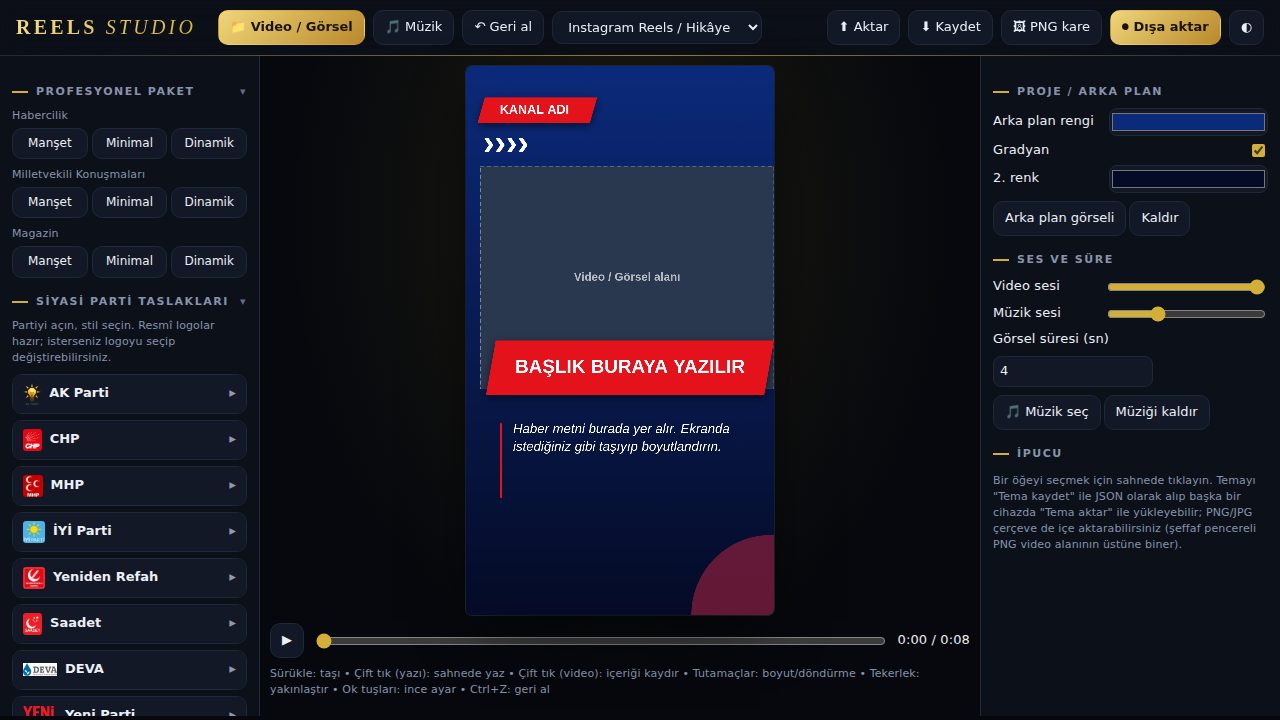
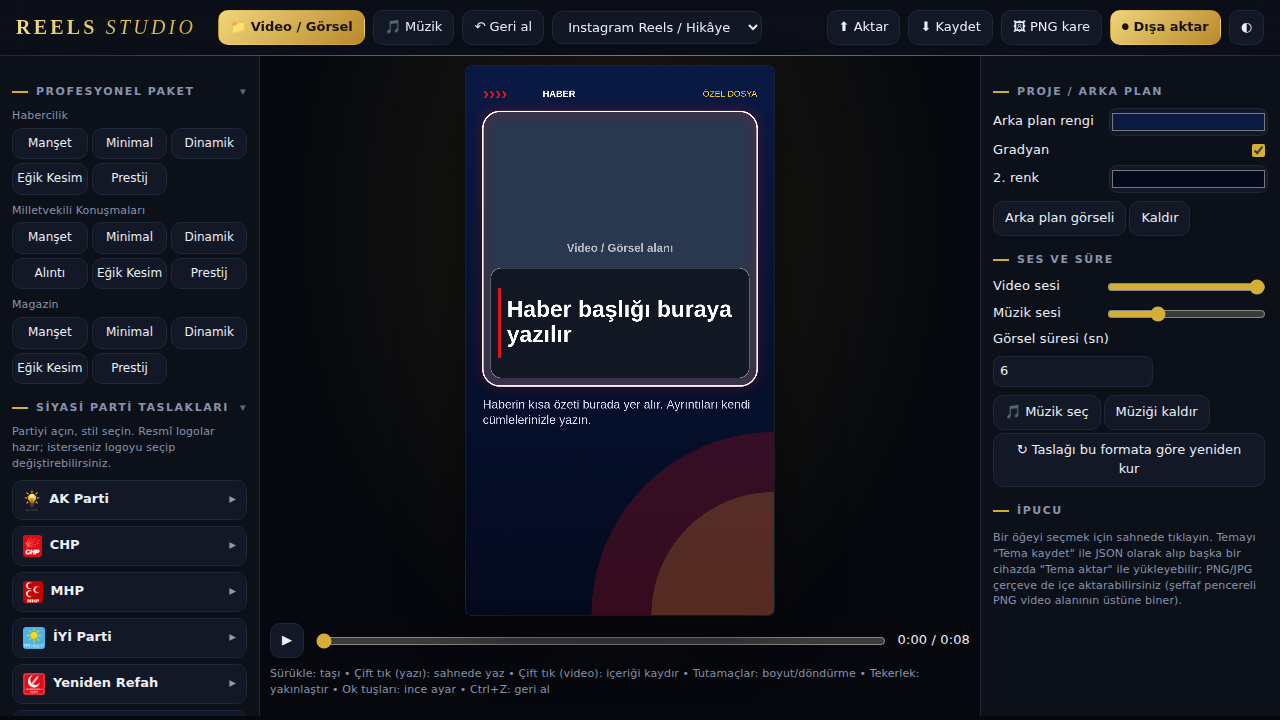
Add files via upload

diff --git a/ebs_prof_reals_studio/index.html b/ebs_prof_reals_studio/index.html
@@ -91,21 +91,21 @@ const FONTS=['Arial','Georgia','Impact','Trebuchet MS','Verdana','Tahoma','Times
 let L=[],S={vv:1,mv:.3,per:4},A={},IM={},sel=null,vid=null,imgs=[],mus=null,T=0,run=0,c0=0,rec=null,drag=null,G=[],hist=[],n=0,ac,dst,gv,gm,wt;
 const R=(x,y,w,h,o)=>({k:'rect',x,y,w,h,c1:'#ffffff',...o}),X=(t,x,y,w,h,o)=>({k:'text',t,x,y,w,h,s:60,c:'#ffffff',f:'Arial',b:1,a:'left',lh:1.2,...o}),M=(x,y,w,h,o)=>({k:'media',x,y,w,h,r:0,fit:'cover',...o});
 const TP={
-'📰 Haber':()=>({S:{bg:'#0b2a7a',gr:1,bg2:'#050b26'},L:[R(40,110,420,90,{c1:'#e3121b',sk:26,shd:1,an:'left'}),X('KANAL ADI',50,110,380,90,{s:44,a:'center',an:'left'}),X('››››',60,220,300,110,{s:120}),M(50,350,1030,780),R(70,960,1010,190,{c1:'#e3121b',sk:34,shd:1,an:'right',ad:.3}),X('BAŞLIK BURAYA YAZILIR',130,965,890,180,{s:66,a:'center',up:1,af:1,an:'right',ad:.3}),R(120,1250,6,260,{c1:'#e3121b'}),X('Haber metni burada yer alır. Ekranda istediğiniz gibi taşıyıp boyutlandırın.',165,1240,820,300,{s:46,b:0,i:1,v:'top',lh:1.35,an:'fade',ad:.8}),R(790,1640,560,560,{c1:'#8b1f3c',r:280,o:.7})]}),
-'🚨 Son Dakika':()=>({S:{bg:'#000'},L:[M(0,0,1080,1920),R(0,900,1080,1020,{c1:'#000000',fade:1,rv:1,o:.92}),R(0,1200,560,100,{c1:'#e3121b',sk:24,an:'left'}),X('SON DAKİKA',20,1200,500,100,{s:54,a:'center',an:'left'}),X('Haber başlığı buraya',60,1320,960,300,{s:78,up:1,af:1,v:'top',an:'up',ad:.3}),R(0,1760,1080,160,{c1:'#c4000a'}),X('KANAL ADI • www.site.com',40,1760,1000,160,{s:46,a:'center'})]}),
-'🎤 Vekil Konuşması':()=>({S:{bg:'#0d1b2a',gr:1,bg2:'#1b3a5c'},L:[X('MİLLETVEKİLİ AÇIKLAMASI',60,100,960,70,{s:38,c:'#f2c14e'}),R(60,170,200,8,{c1:'#f2c14e'}),M(60,230,960,900,{r:36,bw:8,bc:'#ffffff'}),R(60,1090,960,200,{c1:'#f2c14e',r:24,shd:1,an:'up',ad:.2}),X('Ad Soyad',100,1100,880,100,{s:64,c:'#0d1b2a',an:'up',ad:.2}),X('İl Milletvekili • Parti',100,1190,880,80,{s:38,c:'#0d1b2a',b:0,an:'up',ad:.2}),X('“',60,1280,200,200,{s:260,c:'#f2c14e',f:'Georgia',o:.8}),X('Konuşmanın öne çıkan cümlesi burada yer alır.',100,1420,880,360,{s:54,i:1,b:0,v:'top',lh:1.3,an:'fade',ad:.7}),X('KANAL ADI',60,1820,960,60,{s:32,c:'#8ea2bf',a:'center'})]}),
-'💬 Röportaj':()=>({S:{bg:'#f4efe6'},L:[R(0,0,1080,420,{c1:'#c1121f'}),M(330,230,420,420,{r:210,bw:14,bc:'#f4efe6'}),X('Konuk Adı Soyadı',60,700,960,90,{s:64,c:'#14213d',a:'center'}),X('Unvan / Kurum',60,790,960,60,{s:36,b:0,c:'#c1121f',a:'center'}),X('“',60,850,960,230,{s:300,c:'#c1121f',a:'center',f:'Georgia'}),X('Alıntı cümlesi burada yer alır.',90,1080,900,600,{s:58,i:1,b:0,c:'#14213d',a:'center',v:'top',lh:1.3,an:'fade',ad:.5}),R(0,1780,1080,140,{c1:'#14213d'}),X('KANAL ADI',0,1780,1080,140,{s:44,a:'center'})]}),
+'📰 Haber':()=>({S:{bg:'#0b2a7a',gr:1,bg2:'#050b26'},L:[R(40,110,420,90,{c1:'#e3121b',sk:26,shd:1,an:'left'}),X('HABER',50,110,380,90,{s:44,a:'center',an:'left'}),X('››››',60,220,300,110,{s:120}),M(50,350,1030,780),R(70,960,1010,190,{c1:'#e3121b',sk:34,shd:1,an:'right',ad:.3}),X('BAŞLIK BURAYA YAZILIR',130,965,890,180,{s:66,a:'center',up:1,af:1,an:'right',ad:.3}),R(120,1250,6,260,{c1:'#e3121b'}),X('Haber metni burada yer alır. Ekranda istediğiniz gibi taşıyıp boyutlandırın.',165,1240,820,300,{s:46,b:0,i:1,v:'top',lh:1.35,an:'fade',ad:.8}),R(790,1640,560,560,{c1:'#8b1f3c',r:280,o:.7})]}),
+'🚨 Son Dakika':()=>({S:{bg:'#000'},L:[M(0,0,1080,1920),R(0,900,1080,1020,{c1:'#000000',fade:1,rv:1,o:.92}),R(0,1200,560,100,{c1:'#e3121b',sk:24,an:'left'}),X('SON DAKİKA',20,1200,500,100,{s:54,a:'center',an:'left'}),X('Haber başlığı buraya',60,1320,960,300,{s:78,up:1,af:1,v:'top',an:'up',ad:.3}),R(0,1760,1080,160,{c1:'#c4000a'}),X('CANLI • SON DAKİKA • GÜNCEL',40,1760,1000,160,{s:46,a:'center'})]}),
+'🎤 Vekil Konuşması':()=>({S:{bg:'#0d1b2a',gr:1,bg2:'#1b3a5c'},L:[X('MİLLETVEKİLİ AÇIKLAMASI',60,100,960,70,{s:38,c:'#f2c14e'}),R(60,170,200,8,{c1:'#f2c14e'}),M(60,230,960,900,{r:36,bw:8,bc:'#ffffff'}),R(60,1090,960,200,{c1:'#f2c14e',r:24,shd:1,an:'up',ad:.2}),X('Ad Soyad',100,1100,880,100,{s:64,c:'#0d1b2a',an:'up',ad:.2}),X('İl Milletvekili • Parti',100,1190,880,80,{s:38,c:'#0d1b2a',b:0,an:'up',ad:.2}),X('“',60,1280,200,200,{s:260,c:'#f2c14e',f:'Georgia',o:.8}),X('Konuşmanın öne çıkan cümlesi burada yer alır.',100,1420,880,360,{s:54,i:1,b:0,v:'top',lh:1.3,an:'fade',ad:.7})]}),
+'💬 Röportaj':()=>({S:{bg:'#f4efe6'},L:[R(0,0,1080,420,{c1:'#c1121f'}),M(330,230,420,420,{r:210,bw:14,bc:'#f4efe6'}),X('Konuk Adı Soyadı',60,700,960,90,{s:64,c:'#14213d',a:'center'}),X('Unvan / Kurum',60,790,960,60,{s:36,b:0,c:'#c1121f',a:'center'}),X('“',60,850,960,230,{s:300,c:'#c1121f',a:'center',f:'Georgia'}),X('Alıntı cümlesi burada yer alır.',90,1080,900,600,{s:58,i:1,b:0,c:'#14213d',a:'center',v:'top',lh:1.3,an:'fade',ad:.5}),R(0,1780,1080,140,{c1:'#14213d'}),X('RÖPORTAJ',0,1780,1080,140,{s:44,a:'center'})]}),
 '✨ Modern Cam':()=>({S:{bg:'#10131a'},L:[M(0,0,1080,1920,{bl:40}),M(0,380,1080,1000,{fit:'contain'}),R(60,1400,960,380,{c1:'#ffffff',o:.16,r:48,sw:2,sc:'#ffffff',an:'up'}),R(100,1440,230,60,{c1:'#ff3d71',r:30}),X('YENİ',100,1440,230,60,{s:30,a:'center'}),X('Başlık burada',100,1520,880,140,{s:66,af:1,v:'top',an:'up',ad:.2}),X('Alt başlık / açıklama',100,1665,880,90,{s:36,b:0,o:.85})]}),
 '📣 Duyuru':()=>({S:{bg:'#2a0a5e',gr:1,bg2:'#f0504a'},L:[X('DUYURU',60,120,960,130,{s:120,a:'center',f:'Impact',b:0,an:'down'}),M(90,320,900,900,{r:60,bw:12,bc:'#ffffff'}),R(120,1180,840,150,{c1:'#ffd23f',r:75,shd:1,an:'up'}),X('12 EKİM • 20:00',120,1180,840,150,{s:64,c:'#2a0a5e',a:'center',an:'up'}),X('Etkinlik adı ve yer bilgisi burada',100,1400,880,260,{s:60,a:'center',af:1,an:'fade',ad:.6}),X('www.siteadi.com',60,1780,960,70,{s:38,a:'center',b:0})]}),
-'⚽ Spor':()=>({S:{bg:'#04210f',gr:1,bg2:'#000000'},L:[X('SPOR',60,90,300,80,{s:54,c:'#ffd400'}),M(0,200,1080,880),R(0,1000,1080,170,{c1:'#ffd400',sk:50,an:'left'}),X('MAÇ BAŞLIĞI',60,1000,960,170,{s:70,c:'#04210f',a:'center',up:1,af:1,an:'left'}),R(140,1250,800,200,{c1:'#ffffff',o:.1,r:30,sw:2,sc:'#ffd400'}),X('TAKIM A',160,1260,260,180,{s:40,a:'center',af:1}),X('2 - 1',420,1250,240,200,{s:90,c:'#ffd400',a:'center'}),X('TAKIM B',660,1260,260,180,{s:40,a:'center',af:1}),X('Maç özeti ve detaylar burada.',100,1500,880,260,{s:46,b:0,a:'center',v:'top'}),X('KANAL ADI',0,1820,1080,60,{s:34,a:'center',c:'#8ea2bf'})]}),
+'⚽ Spor':()=>({S:{bg:'#04210f',gr:1,bg2:'#000000'},L:[X('SPOR',60,90,300,80,{s:54,c:'#ffd400'}),M(0,200,1080,880),R(0,1000,1080,170,{c1:'#ffd400',sk:50,an:'left'}),X('MAÇ BAŞLIĞI',60,1000,960,170,{s:70,c:'#04210f',a:'center',up:1,af:1,an:'left'}),R(140,1250,800,200,{c1:'#ffffff',o:.1,r:30,sw:2,sc:'#ffd400'}),X('TAKIM A',160,1260,260,180,{s:40,a:'center',af:1}),X('2 - 1',420,1250,240,200,{s:90,c:'#ffd400',a:'center'}),X('TAKIM B',660,1260,260,180,{s:40,a:'center',af:1}),X('Maç özeti ve detaylar burada.',100,1500,880,260,{s:46,b:0,a:'center',v:'top'})]}),
 '💹 Ekonomi':()=>({S:{bg:'#07162b',gr:1,bg2:'#0c3b2e'},L:[X('PİYASALAR',60,100,700,90,{s:56,c:'#2ee59d'}),R(60,190,260,8,{c1:'#2ee59d'}),M(60,260,960,640,{r:30}),R(60,960,460,260,{c1:'#ffffff',o:.08,r:28,sw:2,sc:'#2ee59d'}),X('DOLAR',90,980,400,70,{s:40,b:0,c:'#8ea2bf'}),X('00,00',90,1050,400,140,{s:100,c:'#2ee59d'}),R(560,960,460,260,{c1:'#ffffff',o:.08,r:28,sw:2,sc:'#2ee59d'}),X('EURO',590,980,400,70,{s:40,b:0,c:'#8ea2bf'}),X('00,00',590,1050,400,140,{s:100,c:'#2ee59d'}),X('Ekonomi başlığı',60,1280,960,260,{s:68,up:1,af:1,v:'top'}),X('Kısa açıklama metni.',60,1560,960,240,{s:42,b:0,o:.85,v:'top'})]}),
 '🕯 Anma':()=>({S:{bg:'#0a0a0a'},L:[X('BAŞSAĞLIĞI',90,130,900,100,{s:56,a:'center',f:'Georgia',b:0}),M(90,260,900,1080),R(90,1380,900,3,{c1:'#ffffff'}),X('Ad Soyad',90,1410,900,110,{s:76,a:'center',f:'Georgia',b:0}),X('1950 - 2026',90,1520,900,70,{s:44,a:'center',c:'#bbbbbb',b:0}),X('Allah rahmet eylesin',90,1620,900,120,{s:48,i:1,a:'center',f:'Georgia',b:0,c:'#dddddd',an:'fade',ad:.6})]}),
 '💖 Magazin':()=>({S:{bg:'#2b0a4a',gr:1,bg2:'#ff2d87'},L:[R(0,0,1080,160,{c1:'#ffe14d'}),X('MAGAZİN',0,0,1080,160,{s:84,c:'#2b0a4a',a:'center',f:'Impact',b:0}),M(70,230,940,1000,{r:50,bw:10,bc:'#ffe14d'}),R(90,1120,520,110,{c1:'#ff2d87',r:55,shd:1,an:'left'}),X('SICAK GELİŞME',90,1120,520,110,{s:38,a:'center',an:'left'}),X('Magazin başlığı',70,1290,940,300,{s:76,af:1,v:'top',an:'up',ad:.2,sh:1}),X('Detay metni',70,1600,940,200,{s:42,b:0,o:.9,v:'top'}),X('@kullaniciadi',0,1820,1080,60,{s:36,a:'center'})]}),
 '🏷 İndirim':()=>({S:{bg:'#d90429',gr:1,bg2:'#8d0801'},L:[X('BÜYÜK',60,120,960,120,{s:100,a:'center',f:'Impact',b:0}),X('İNDİRİM',60,230,960,200,{s:190,c:'#ffd23f',a:'center',f:'Impact',b:0,an:'zoom'}),M(140,480,800,700,{r:40,bw:10,bc:'#ffffff'}),R(640,1060,360,360,{c1:'#ffd23f',r:180,shd:1,an:'zoom',ad:.4}),X('%50',640,1060,360,360,{s:120,c:'#d90429',a:'center',f:'Impact',b:0,an:'zoom',ad:.4}),X('Ürün adı / kampanya detayı',80,1470,920,200,{s:60,a:'center',af:1,v:'top'}),R(260,1700,560,120,{c1:'#ffffff',r:60}),X('HEMEN İNCELE',260,1700,560,120,{s:46,c:'#d90429',a:'center'})]}),
 '📝 Altyazılı':()=>({S:{bg:'#000000'},L:[M(0,0,1080,1920),R(0,1300,1080,620,{c1:'#000000',fade:1,rv:1,o:.85}),X('@kanal',0,90,1080,70,{s:36,a:'center',o:.8,sh:1}),X('Altyazı / konuşma metni buraya yazılır',70,1560,940,260,{s:62,a:'center',af:1,sh:1,an:'fade'})]}),
-'🖥 YouTube Klasik':()=>({d:[1920,1080],S:{bg:'#000000'},L:[M(0,0,1920,1080),R(0,700,1920,380,{c1:'#000000',fade:1,rv:1,o:.85}),R(80,840,900,100,{c1:'#ff0000',sk:20,an:'left'}),X('Ad Soyad',100,840,860,100,{s:56,an:'left'}),R(80,940,1100,70,{c1:'#ffffff',sk:20,an:'left',ad:.2}),X('Unvan / Konum',100,940,1060,70,{s:34,c:'#111111',b:0,an:'left',ad:.2}),X('KANAL',1560,50,300,70,{s:44,a:'right',sh:1})]}),
-'📺 Yatay Haber':()=>({d:[1920,1080],S:{bg:'#050b26'},L:[M(0,0,1920,1080),R(0,820,1920,260,{c1:'#050b26',o:.92}),R(0,820,1920,10,{c1:'#e3121b'}),R(60,785,420,80,{c1:'#e3121b',sk:22,an:'left'}),X('SON DAKİKA',60,785,420,80,{s:40,a:'center',an:'left'}),X('Haber başlığı burada',70,885,1780,180,{s:80,up:1,af:1,v:'top',an:'up',ad:.2}),X('KANAL',1560,40,300,70,{s:44,a:'right',sh:1})]}),
-'🎞 Yatay Bölünmüş':()=>({d:[1920,1080],S:{bg:'#0b2a7a',gr:1,bg2:'#050b26'},L:[M(760,0,1160,1080,{an:'right'}),R(80,160,120,10,{c1:'#ffd23f'}),X('BAŞLIK BURAYA',80,200,620,480,{s:80,up:1,af:1,v:'top',an:'left',ad:.2}),X('Açıklama metni burada yer alır.',80,720,620,260,{s:36,b:0,v:'top',o:.85,an:'fade',ad:.7}),X('KANAL',80,60,300,60,{s:36,c:'#ffd23f'})]}),
+'🖥 YouTube Klasik':()=>({d:[1920,1080],S:{bg:'#000000'},L:[M(0,0,1920,1080),R(0,700,1920,380,{c1:'#000000',fade:1,rv:1,o:.85}),R(80,840,900,100,{c1:'#ff0000',sk:20,an:'left'}),X('Ad Soyad',100,840,860,100,{s:56,an:'left'}),R(80,940,1100,70,{c1:'#ffffff',sk:20,an:'left',ad:.2}),X('Unvan / Konum',100,940,1060,70,{s:34,c:'#111111',b:0,an:'left',ad:.2}),X('YOUTUBE',1560,50,300,70,{s:44,a:'right',sh:1})]}),
+'📺 Yatay Haber':()=>({d:[1920,1080],S:{bg:'#050b26'},L:[M(0,0,1920,1080),R(0,820,1920,260,{c1:'#050b26',o:.92}),R(0,820,1920,10,{c1:'#e3121b'}),R(60,785,420,80,{c1:'#e3121b',sk:22,an:'left'}),X('SON DAKİKA',60,785,420,80,{s:40,a:'center',an:'left'}),X('Haber başlığı burada',70,885,1780,180,{s:80,up:1,af:1,v:'top',an:'up',ad:.2}),X('SON DAKİKA',1520,40,340,70,{s:44,a:'right',sh:1})]}),
+'🎞 Yatay Bölünmüş':()=>({d:[1920,1080],S:{bg:'#0b2a7a',gr:1,bg2:'#050b26'},L:[M(760,0,1160,1080,{an:'right'}),R(80,160,120,10,{c1:'#ffd23f'}),X('BAŞLIK BURAYA',80,200,620,480,{s:80,up:1,af:1,v:'top',an:'left',ad:.2}),X('Açıklama metni burada yer alır.',80,720,620,260,{s:36,b:0,v:'top',o:.85,an:'fade',ad:.7}),X('GÜNDEM',80,60,300,60,{s:36,c:'#ffd23f'})]}),
 '⬜ Boş':()=>({S:{bg:'#000'},L:[M(0,0,1080,1920)]})};
 const snap=()=>JSON.stringify({L,S,W,H}),commit=()=>{hist.push(snap());if(hist.length>60)hist.shift()};
 function undo(){if(hist.length<2)return;hist.pop();const o=JSON.parse(hist[hist.length-1]);setSize(o.W||W,o.H||H,0);L=o.L;S=o.S;sel=null;syncFm();ui()}
@@ -378,67 +378,79 @@ const PKC=[
 {n:'Habercilik',a:'#e3121b',on:'#ffffff',ta:'#c4101a',a2:'#ffd23f',d:'#0a1a44',d2:'#040a1e',l:'#f3f5fa',ink:'#0b1630',tag:'HABER',tag2:'ÖZEL DOSYA',h:'Haber başlığı buraya yazılır',s:'Haberin kısa özeti burada yer alır. Ayrıntıları kendi cümlelerinizle yazın.'},
 {n:'Milletvekili Konuşmaları',a:'#c9a24b',on:'#0d1b2a',ta:'#8a5a00',a2:'#f2c14e',d:'#13263d',d2:'#070f19',l:'#f6f1e7',ink:'#14213d',tag:'MECLİS GÜNDEMİ',tag2:'AÇIKLAMA',h:'Vekilin açıklaması burada yer alır',s:'Öne çıkan ifadeyi buraya yazın. Yayımlamadan önce alıntıyı doğrulayın.',pn:'AD SOYAD',pr:'İl Milletvekili • Parti'},
 {n:'Magazin',a:'#ff2d87',on:'#ffffff',ta:'#d0176a',a2:'#ffd23f',d:'#2a0f4d',d2:'#12061f',l:'#fff4f9',ink:'#2b0a4a',tag:'MAGAZİN',tag2:'GÜNDEMDE',h:'Gündeme damga vuran gelişme',s:'Ayrıntılar ve açıklamalar burada yer alır.'}];
-const PKS=['Manşet','Minimal','Dinamik'];
+const PKS=['Manşet','Minimal','Dinamik','Alıntı','Eğik Kesim','Prestij'];
 function PK(ci,si,W,H,pi){
- const pt=pi!=null?PARTIES[pi]:null,c=pt?{...PKC[1],...pt,s:PKC[1].s,tag:pt.s.toUpperCase(),tag2:'MECLİS KONUŞMASI',pr:'Milletvekili • '+pt.s}:PKC[ci],r=Math.round,mn=Math.min(W,H),u=mn/1080,m=r(mn*.05),P=H/W>=1.2,LS=W/H>=1.5,vk=!!c.pn,L=[],S={vv:1,mv:.3,per:6,tk:[ci,si,pi]};
- const T=(n,t,x,y,w,h,s,col,o)=>X(t,r(x),r(y),r(w),r(h),{s:r(s*u),c:col,af:1,n,...o}),B=(n,x,y,w,h,o)=>R(r(x),r(y),r(w),r(h),{n,...o}),D=(n,x,y,w,h,o)=>M(r(x),r(y),r(w),r(h),{n,...o}),
- F=(x,y,w,col,o)=>[B('Kanal çizgisi',x,y-16*u,w,2,{c1:col,o:.22}),T('Kanal','KANAL / LOGO',x,y,w*.6,56*u,30,col,{a:'left',...o})],
- bu=(x,y)=>ci==2?[PO(st(12,.8),r(x),r(y),r(190*u),r(190*u),{c1:c.a2,shd:1,rot:10,n:'Rozet'}),T('Rozet yazısı','SICAK',x,y,190*u,190*u,40,'#2a0f4d',{a:'center',rot:10,f:'Impact',b:0,af:0})]:[];
- const lgo=(x,y,bw,bh,al)=>pt?plogo(pt,x,y,bw,bh,al):[];
+ const pt=pi!=null?PARTIES[pi]:null,c=pt?{...PKC[1],...pt,s:PKC[1].s,tag:pt.s.toUpperCase(),tag2:'MECLİS KONUŞMASI',pr:'Milletvekili • '+pt.s}:PKC[ci],r=Math.round,mn=Math.min(W,H),u=mn/1080,m=r(mn*.055),P=H/W>=1.2,LS=W/H>=1.5,vk=!!c.pn,L=[],S={vv:1,mv:.3,per:6,tk:[ci,si,pi]};
+ const T=(n,t,x,y,w,h,s,col,o)=>X(t,r(x),r(y),r(w),r(h),{s:r(s*u),c:col,af:1,n,...o}),B=(n,x,y,w,h,o)=>R(r(x),r(y),r(w),r(h),{n,...o}),D=(n,x,y,w,h,o)=>M(r(x),r(y),r(w),r(h),{n,...o}),PG=(n,pts,x,y,w,h,o)=>PO(pts,r(x),r(y),r(w),r(h),{n,...o}),
+ lgo=(x,y,bw,bh,al)=>pt?plogo(pt,x,y,bw,bh,al):[],hi=c.hi||c.a2,
+ qd=(R_,o,col)=>PG('Işık',Array.from({length:21},(_,i)=>{const a=i/20*Math.PI/2;return[1-Math.sin(a),1-Math.cos(a)]}).concat([[1,1]]),W-R_,H-R_,R_,R_,{c1:col,o}),
+ bu=(x,y)=>ci==2?[PO(st(12,.8),r(x),r(y),r(190*u),r(190*u),{c1:c.a2,shd:1,rot:10,n:'Rozet'}),T('Rozet yazısı','SICAK',x,y,190*u,190*u,40,'#2a0f4d',{a:'center',rot:10,f:'Impact',b:0,af:0})]:[],
+ pe=(x,y,w,ns,rs,nc,rc,al)=>[T('Ad Soyad',c.pn,x,y,w,ns*1.3*u,ns,nc,{a:al||'left'}),T('Unvan',c.pr,x,y+ns*1.3*u,w,rs*1.4*u,rs,rc,{a:al||'left',b:0})];
  if(si==0){S.bg=c.d;S.gr=1;S.bg2=c.d2;
-  if(LS){const lw=r(W*.42),fy=H-m-56*u,pl=vk?r(112*u):0,y0=fy-pl-20*u,ty=m+110*u,hh=H*(vk?.3:.36),sy=ty+hh+16*u;
-   L.push(D('Medya',lw,0,W-lw,H,{}),B('Dikey çizgi',lw-8*u,0,8*u,H,{c1:c.a}),B('Etiket zemin',m,m,360*u,68*u,{c1:c.a,sk:r(18*u),an:'left'}),T('Etiket',c.tag,m,m,360*u,68*u,32,c.on,{a:'center',up:1,an:'left'}),
-    T('Başlık',c.h,m,ty,lw-2*m,hh,72,'#ffffff',{v:'bot',lh:1.12,an:'up',ad:.2}),T('Özet',c.s,m,sy,lw-2*m,(vk?y0-16*u:fy-16*u)-sy,36,'#d7deee',{b:0,v:'top',lh:1.3,an:'fade',ad:.6}));
-   if(vk)L.push(B('Kişi levhası',m,y0,lw-2*m,pl,{c1:c.a}),T('Ad Soyad',c.pn,m+20*u,y0+8*u,lw-2*m-40*u,54*u,40,c.on,{a:'left'}),T('Unvan',c.pr,m+20*u,y0+62*u,lw-2*m-40*u,42*u,30,c.on,{a:'left',b:0}));
-   L.push(...F(m,fy,lw-2*m,'#ffffff'));
-  }else{const tb=H*(P?.06:.08),my=tb+m,mh=H*(P?(vk?.43:.46):(vk?.35:.41)),pl=vk?112*u:0,fy=H-m-56*u;
-   L.push(B('Üst bant',0,0,W,tb,{c1:c.a}),T('Etiket',c.tag,m,0,W-2*m,tb,34,c.on,{a:'center',up:1}),D('Medya',m,my,W-2*m,mh,{r:r(26*u),bw:r(6*u),bc:c.a}));
-   if(vk)L.push(B('Kişi levhası',m,my+mh,W-2*m,pl,{c1:c.a}),T('Ad Soyad',c.pn,m+24*u,my+mh,(W-2*m)*.52,pl,44,c.on,{a:'left'}),T('Unvan',c.pr,m+(W-2*m)*.5,my+mh,(W-2*m)*.5-24*u,pl,28,c.on,{a:'right',b:0}));
-   else L.push(B('Etiket 2 zemin',m+28*u,my+mh-32*u,300*u,64*u,{c1:c.a,sk:r(20*u),shd:1,an:'left'}),T('Etiket 2',c.tag2,m+28*u,my+mh-32*u,300*u,64*u,28,c.on,{a:'center',up:1,an:'left'}));
-   const zy=my+mh+pl+(vk?34:56)*u,zh=fy-28*u-zy;
-   L.push(T('Başlık',c.h,m,zy,W-2*m,zh*.52,P?100:78,'#ffffff',{v:'top',lh:1.12,an:'up',ad:.2}),B('Vurgu çizgisi',m,zy+zh*.54,120*u,6*u,{c1:c.a}),T('Özet',c.s,m,zy+zh*.6,W-2*m,zh*.4,P?44:36,'#d7deee',{b:0,v:'top',lh:1.3,an:'fade',ad:.6}),...F(m,fy,W-2*m,'#ffffff'),...bu(W-m-170*u,my-40*u));
+  if(LS){const lw=r(W*.44),cw2=lw-2*m,ch=150*u,cy=H-m-ch,ty=m+150*u,hh=H*.3,sy=ty+hh+14*u;
+   L.push(D('Medya',lw,0,W-lw,H,{}),B('Dikey çizgi',lw-8*u,0,8*u,H,{c1:c.a}),B('Etiket zemin',m,m,420*u,68*u,{c1:c.a,sk:r(18*u),an:'left'}),T('Etiket',c.tag,m,m,420*u,68*u,32,c.on,{a:'center',up:1,an:'left'}),T('Etiket 2',c.tag2,m,m+84*u,cw2,44*u,30,hi,{a:'left',b:0,up:1}),
+    T('Başlık',c.h,m,ty,cw2,hh,72,'#ffffff',{v:'bot',lh:1.12,an:'up',ad:.2}),T('Özet',c.s,m,sy,cw2,(vk?cy-20*u:H-m)-sy,36,'#d7deee',{b:0,v:'top',lh:1.3,an:'fade',ad:.6}));
+   if(vk)L.push(B('Kişi kartı',m,cy,cw2,ch,{c1:'#ffffff',r:r(24*u),shd:1}),B('Kart vurgusu',m+22*u,cy+ch*.22,8*u,ch*.56,{c1:c.a,r:4}),...pe(m+48*u,cy+ch*.14,cw2-48*u-(pt?270*u:24*u),44,32,c.ink,c.ta),...lgo(m+cw2-250*u-16*u,cy+14*u,250*u,ch-28*u,'rm'));
+  }else{const hb=H*(P?.07:.09),my=hb+m*.8,mh=H*(P?.44:(vk?.36:.4)),ch=(vk?(P?170:140):0)*u,cy=my+mh-ch*.38,zy=my+mh+(vk?ch*.62+36*u:56*u),zh=H-m-24*u-zy;
+   L.push(B('Üst bant',0,0,W,hb,{c1:c.a}),B('Üst çizgi',0,hb,W,6*u,{c1:'#ffffff',o:.18}),T('Etiket',c.tag,m,0,W*.5-m,hb,34,c.on,{a:'left',up:1}),T('Etiket 2',c.tag2,W*.5,0,W*.5-m,hb,30,c.on,{a:'right',b:0,up:1,o:.85}),D('Medya',m,my,W-2*m,mh,{r:r(30*u),bw:r(5*u),bc:c.a}));
+   if(vk)L.push(B('Kişi kartı',m+28*u,cy,W-2*m-56*u,ch,{c1:'#ffffff',r:r(26*u),shd:1}),B('Kart vurgusu',m+54*u,cy+ch*.2,9*u,ch*.6,{c1:c.a,r:4}),...pe(m+84*u,cy+ch*.14,W-2*m-84*u-56*u-(pt?310*u:24*u),48,30,c.ink,c.ta),...lgo(W-m-28*u-300*u-16*u,cy+14*u,300*u,ch-28*u,'rm'));
+   L.push(T('Başlık',c.h,m,zy,W-2*m,zh*.54,P?100:78,'#ffffff',{v:'top',lh:1.12,an:'up',ad:.2}),B('Vurgu çizgisi',m,zy+zh*.56,120*u,6*u,{c1:c.a}),T('Özet',c.s,m,zy+zh*.62,W-2*m,zh*.38,P?44:36,'#d7deee',{b:0,v:'top',lh:1.3,an:'fade',ad:.6}),...bu(W-m-170*u,my-40*u));
   }
- }else if(si==1){S.bg=c.l;
-  if(LS){const lw=r(W*.44),fy=H-m-56*u,pl=vk?96*u:0,y0=fy-pl-18*u,ty=m+100*u,hh=H*.34,sy=ty+hh+12*u;
-   L.push(D('Medya',lw,m,W-lw-m,H-2*m,{r:r(34*u)}),B('Üst çizgi',m,m,lw-2*m,6*u,{c1:c.a}),T('Etiket',c.tag,m,m+22*u,lw-2*m,56*u,32,c.ta,{a:'left',up:1}),
-    T('Başlık',c.h,m,ty,lw-2*m,hh,66,c.ink,{v:'bot',lh:1.12}),T('Özet',c.s,m,sy,lw-2*m,(vk?y0:fy-16*u)-sy-10*u,34,'#4a5568',{b:0,v:'top',lh:1.3}));
-   if(vk)L.push(B('Kişi çizgisi',m,y0,6*u,pl,{c1:c.a}),T('Ad Soyad',c.pn,m+22*u,y0,lw-2*m-22*u,52*u,38,c.ink,{a:'left'}),T('Unvan',c.pr,m+22*u,y0+52*u,lw-2*m-22*u,42*u,30,c.ta,{a:'left',b:0}));
-   L.push(...F(m,fy,lw-2*m,c.ink,{o:.65}));
-  }else{const my=m+96*u,mh=H*(P?(vk?.43:.46):(vk?.34:.38)),pl=vk?96*u:0,fy=H-m-56*u;
-   L.push(B('Üst çizgi',m,m,W-2*m,6*u,{c1:c.a}),T('Etiket',c.tag,m,m+22*u,(W-2*m)*.6,56*u,32,c.ta,{a:'left',up:1}),D('Medya',m,my,W-2*m,mh,{r:r(36*u)}));
-   if(vk)L.push(B('Kişi çizgisi',m,my+mh+24*u,6*u,pl,{c1:c.a}),T('Ad Soyad',c.pn,m+22*u,my+mh+24*u,W-2*m-22*u,52*u,42,c.ink,{a:'left'}),T('Unvan',c.pr,m+22*u,my+mh+76*u,W-2*m-22*u,42*u,30,c.ta,{a:'left',b:0}));
-   else L.push(B('Etiket 2 zemin',m+28*u,my+mh-30*u,250*u,60*u,{c1:c.a,r:r(30*u)}),T('Etiket 2',c.tag2,m+28*u,my+mh-30*u,250*u,60*u,26,c.on,{a:'center',up:1}));
-   const zy=my+mh+(vk?pl+48:56)*u,zh=fy-28*u-zy;
-   L.push(T('Başlık',c.h,m,zy,W-2*m,zh*.52,P?96:74,c.ink,{v:'top',lh:1.12}),T('Özet',c.s,m,zy+zh*.58,W-2*m,zh*.42,P?42:34,'#4a5568',{b:0,v:'top',lh:1.3}),...F(m,fy,W-2*m,c.ink,{o:.65}),B('Nokta',W-m-24*u,fy+16*u,24*u,24*u,{c1:c.a,r:12}),...bu(W-m-170*u,my-40*u));
+ }else if(si==1){S.bg=c.l;const off=26*u;
+  if(LS){const lw=r(W*.44),cw2=lw-2*m,mw=W-lw-m-off,y0=H-m-110*u,ty=m+140*u,hh=H*.3,sy=ty+hh+12*u;
+   L.push(B('Medya gölge',lw+off,m+off,mw,H-2*m-off,{c1:c.a,r:r(36*u)}),D('Medya',lw,m,mw,H-2*m-off,{r:r(36*u)}),B('Etiket zemin',m,m,380*u,64*u,{c1:c.a,r:r(32*u)}),T('Etiket',c.tag,m,m,380*u,64*u,32,c.on,{a:'center',up:1}),T('Etiket 2',c.tag2,m,m+80*u,cw2,40*u,30,'#6b7280',{a:'left',b:0,up:1}),
+    T('Başlık',c.h,m,ty,cw2,hh,66,c.ink,{v:'bot',lh:1.12}),T('Özet',c.s,m,sy,cw2,(vk?y0-24*u:H-m)-sy,34,'#4a5568',{b:0,v:'top',lh:1.3}));
+   if(vk)L.push(B('Kişi çizgisi',m,y0,8*u,100*u,{c1:c.a,r:4}),...pe(m+26*u,y0,cw2-26*u-(pt?230*u:0),42,32,c.ink,c.ta),...lgo(lw-m-220*u,y0-20*u,220*u,140*u,'rm'));
+  }else{const ph=64*u,my=m+104*u,mw=W-2*m-off,mh=H*(P?.42:(vk?.32:.36)),ny=my+mh+off+34*u,pb=vk?100*u:0,zy=ny+(vk?pb+44*u:20*u),zh=H-m-24*u-zy;
+   L.push(B('Etiket zemin',m,m,380*u,ph,{c1:c.a,r:r(ph/2)}),T('Etiket',c.tag,m,m,380*u,ph,32,c.on,{a:'center',up:1}),T('Etiket 2',c.tag2,m+400*u,m,W-2*m-400*u,ph,30,'#6b7280',{a:'right',b:0,up:1}),B('Medya gölge',m+off,my+off,mw,mh,{c1:c.a,r:r(36*u)}),D('Medya',m,my,mw,mh,{r:r(36*u)}));
+   if(vk)L.push(B('Kişi çizgisi',m,ny,8*u,pb,{c1:c.a,r:4}),...pe(m+28*u,ny+4*u,W-2*m-28*u-(pt?320*u:0),46,30,c.ink,c.ta),...lgo(W-m-300*u,ny-26*u,300*u,150*u,'rm'));
+   L.push(T('Başlık',c.h,m,zy,W-2*m,zh*.55,P?104:80,c.ink,{v:'top',lh:1.1}),T('Özet',c.s,m,zy+zh*.6,W-2*m,zh*.4,P?42:34,'#4a5568',{b:0,v:'top',lh:1.3}),B('Alt vurgu',m,H-m-8*u,140*u,8*u,{c1:c.a,r:4}),...bu(W-m-170*u,my-50*u));
   }
- } else if(si==3){S.bg=c.d;S.gr=1;S.bg2=c.d2;const bs=r(170*u),side=LS||!P,qs='Konuşmanın öne çıkan cümlesi burada yer alır.',hl=c.hi||c.a;
-  if(side){const lw=r(W*.36),x0=lw+m,cw2=W-lw-2*m,fy=H-m-56*u,ny=fy-140*u;
-   L.push(D('Medya',0,0,lw,H,{}),B('Dikey çizgi',lw-8*u,0,8*u,H,{c1:c.a}),...lgo(x0,m,r(Math.min(cw2,300*u)),bs,'lt'),
-    T('Tırnak','“',x0,m+bs+63*u,200*u,150*u,240,hl,{a:'left',f:'Georgia',b:0,af:0,lh:.5}),T('Alıntı',qs,x0,m+bs+215*u,cw2,ny-(m+bs+215*u)-20*u,P?60:56,'#ffffff',{i:1,b:0,f:'Georgia',v:'top',lh:1.28,an:'fade',ad:.4}),
-    B('Kişi çizgisi',x0,ny,6*u,108*u,{c1:c.a}),T('Ad Soyad',c.pn,x0+22*u,ny,cw2-22*u,62*u,44,'#ffffff',{a:'left'}),T('Unvan',c.pr,x0+22*u,ny+62*u,cw2-22*u,44*u,30,hl,{a:'left',b:0}),...F(x0,fy,cw2,'#ffffff'));
-  }else{const D2=r(Math.min(W*.5,H*.24)),my=m+bs+40*u,ny=my+D2+30*u,qy=ny+165*u,fy=H-m-56*u;
-   L.push(...lgo(m,m,r(300*u),bs,'lt'),T('Parti adı',pt?pt.n.toUpperCase():c.tag,W*.5,m,W*.5-m,bs,28,'#ffffffcc',{a:'right',up:1}),D('Medya',(W-D2)/2,my,D2,D2,{r:r(D2/2),bw:r(8*u),bc:c.a}),
-    T('Ad Soyad',c.pn,m,ny,W-2*m,62*u,50,'#ffffff',{a:'center'}),T('Unvan',c.pr,m,ny+62*u,W-2*m,44*u,30,hl,{a:'center',b:0}),T('Tırnak','“',m,qy+49*u,W-2*m,150*u,240,hl,{a:'center',f:'Georgia',b:0,af:0,lh:.5}),
-    T('Alıntı',qs,m+20*u,qy+200*u,W-2*m-40*u,fy-24*u-(qy+200*u),64,'#ffffff',{i:1,b:0,f:'Georgia',a:'center',v:'top',lh:1.28,an:'fade',ad:.4}),...F(m,fy,W-2*m,'#ffffff'));
-  }
- }
-else{S.bg='#000000';const cw=LS?W*.62:W-2*m;let y=H-m-34*u;
-  L.push(D('Medya',0,0,W,H,{}),B('Alt gölge',0,H*(LS?.2:.36),W,H*(LS?.8:.64),{c1:c.d2,fade:1,rv:1,o:.96}),B('Üst gölge',0,0,W,H*.16,{c1:'#000000',fade:1,o:.55}),T('Kanal','KANAL / LOGO',W-m-320*u,m,320*u,56*u,30,'#ffffff',{a:'right',sh:1}));
+ }else if(si==2){S.bg='#000000';const cw=LS?W*.62:W-2*m;let y=H-m-34*u;
+  L.push(D('Medya',0,0,W,H,{}),B('Alt gölge',0,H*(LS?.2:.36),W,H*(LS?.8:.64),{c1:c.d2,fade:1,rv:1,o:.96}),B('Üst gölge',0,0,W,H*.16,{c1:'#000000',fade:1,o:.55}),...lgo(m,m,300*u,180*u,'lt'));
   const sh=(P?180:140)*u;y-=sh;L.push(T('Özet',c.s,m,y,cw,sh,P?44:LS?38:36,'#e6ebf5',{b:0,v:'top',lh:1.3,an:'fade',ad:.6}));
-  if(vk){y-=98*u;L.push(T('Ad Soyad',c.pn,m,y,cw,52*u,40,'#ffffff',{a:'left',sh:1}),T('Unvan',c.pr,m,y+52*u,cw,40*u,30,c.hi||c.a2,{a:'left',b:0,sh:1}))}
+  if(vk){y-=98*u;L.push(...pe(m,y,cw,40,30,'#ffffff',hi).map(l=>({...l,sh:1})))}
   const hh=H*(P?.19:LS?.24:.2);y-=hh+10*u;L.push(T('Başlık',c.h,m,y,cw,hh,P?96:LS?88:74,'#ffffff',{v:'bot',lh:1.12,an:'up',ad:.2}));
   y-=84*u;L.push(B('Etiket zemin',m,y,380*u,64*u,{c1:c.a,sk:r(20*u),shd:1,an:'left'}),T('Etiket',c.tag,m,y,380*u,64*u,30,c.on,{a:'center',up:1,an:'left'}),B('Alt vurgu',m,H-m-8*u,140*u,8*u,{c1:c.a}),...bu(W-m-170*u,m+90*u));
+ }else if(si==3){S.bg=c.d;S.gr=1;S.bg2=c.d2;const bs=r(170*u),side=LS||!P,qs='Konuşmanın öne çıkan cümlesi burada yer alır.',hl=hi;
+  if(side){const lw=r(W*.36),x0=lw+m,cw2=W-lw-2*m,fy=H-m,ny=fy-130*u;
+   L.push(D('Medya',0,0,lw,H,{}),B('Dikey çizgi',lw-8*u,0,8*u,H,{c1:c.a}),...lgo(x0,m,r(Math.min(cw2,300*u)),bs,'lt'),
+    T('Tırnak','“',x0,m+bs+63*u,200*u,150*u,240,hl,{a:'left',f:'Georgia',b:0,af:0,lh:.5}),T('Alıntı',qs,x0,m+bs+215*u,cw2,ny-(m+bs+215*u)-20*u,P?60:56,'#ffffff',{i:1,b:0,f:'Georgia',v:'top',lh:1.28,an:'fade',ad:.4}),B('Kişi çizgisi',x0,ny,6*u,108*u,{c1:c.a}),...pe(x0+22*u,ny,cw2-22*u,44,30,'#ffffff',hl));
+  }else{const D2=r(Math.min(W*.5,H*.24)),my=m+bs+40*u,ny=my+D2+30*u,qy=ny+165*u,fy=H-m;
+   L.push(...lgo(m,m,r(300*u),bs,'lt'),T('Parti adı',pt?pt.n.toUpperCase():c.tag,W*.5,m,W*.5-m,bs,28,'#ffffffcc',{a:'right',up:1}),D('Medya',(W-D2)/2,my,D2,D2,{r:r(D2/2),bw:r(8*u),bc:c.a}),...pe(m,ny,W-2*m,50,30,'#ffffff',hl,'center'),T('Tırnak','“',m,qy+49*u,W-2*m,150*u,240,hl,{a:'center',f:'Georgia',b:0,af:0,lh:.5}),
+    T('Alıntı',qs,m+20*u,qy+200*u,W-2*m-40*u,fy-24*u-(qy+200*u),64,'#ffffff',{i:1,b:0,f:'Georgia',a:'center',v:'top',lh:1.28,an:'fade',ad:.4}));
+  }
+ }else if(si==4){S.bg=c.d;S.gr=1;S.bg2=c.d2;const sw=16*u;
+  if(LS){const vw=r(W*.58),tx=vw+r(m*.7),cw2=W-tx-m,x0=vw*.88,w2=vw*.12+sw,hh=H*.3,sy=m+140*u+hh+12*u,py=H-m-(vk?110*u:0);
+   L.push(D('Medya',0,0,vw,H,{pts:[[0,0],[1,0],[.88,1],[0,1]]}),B('Üst gölge',0,0,vw,H*.3,{c1:'#000000',fade:1,o:.45}),PG('Eğik çizgi',[[vw*.12/w2,0],[1,0],[sw/w2,1],[0,1]],x0,0,w2,H,{c1:c.a}),...lgo(m,m,300*u,170*u,'lt'),
+    B('Etiket zemin',tx,m,380*u,64*u,{c1:c.a,sk:r(20*u),an:'left'}),T('Etiket',c.tag,tx,m,380*u,64*u,32,c.on,{a:'center',up:1,an:'left'}),T('Etiket 2',c.tag2,tx,m+80*u,cw2,40*u,30,hi,{a:'left',b:0,up:1}),T('Başlık',c.h,tx,m+140*u,cw2,hh,64,'#ffffff',{v:'bot',lh:1.12,an:'up',ad:.2}));
+   if(vk)L.push(...pe(tx,py,cw2,42,32,'#ffffff',hi));
+   L.push(T('Özet',c.s,tx,sy,cw2,py-sy-16*u,34,'#d7deee',{b:0,v:'top',lh:1.3,an:'fade',ad:.6}),...bu(vw-190*u-m,m+190*u));
+  }else{const Hm=r(H*(P?.5:.4)),k=.8,y0=Hm*k,hh=Hm+sw-y0,hy=Hm+70*u,h2=H*.2,py=hy+h2+8*u,sy=py+(vk?110*u:0);
+   L.push(D('Medya',0,0,W,Hm,{pts:[[0,0],[1,0],[1,k],[0,1]]}),B('Üst gölge',0,0,W,Hm*.32,{c1:'#000000',fade:1,o:.5}),PG('Eğik çizgi',[[0,(Hm-y0)/hh],[1,0],[1,sw/hh],[0,1]],0,y0,W,hh,{c1:c.a}),...lgo(m,m,300*u,180*u,'lt'),
+    B('Etiket zemin',m,Hm-26*u,400*u,64*u,{c1:c.a,sk:r(20*u),shd:1,an:'left'}),T('Etiket',c.tag,m,Hm-26*u,400*u,64*u,32,c.on,{a:'center',up:1,an:'left'}),T('Etiket 2',c.tag2,W*.45,Hm-26*u,W*.55-m,64*u,30,hi,{a:'right',b:0,up:1}),T('Başlık',c.h,m,hy,W-2*m,h2,P?96:74,'#ffffff',{v:'top',lh:1.1,an:'up',ad:.2}));
+   if(vk)L.push(...pe(m,py,W-2*m,44,30,'#ffffff',hi));
+   L.push(T('Özet',c.s,m,sy,W-2*m,H-m-20*u-sy,P?42:34,'#d7deee',{b:0,v:'top',lh:1.3,an:'fade',ad:.6}),...bu(W-m-170*u,m+90*u));
+  }
+ }else{S.bg=c.d;S.gr=1;S.bg2=c.d2;
+  L.push(qd(r(640*u),.22,c.a),qd(r(430*u),.16,c.a2));
+  if(LS){const lw=r(W*.44),cw2=lw-2*m,y0=H-m-110*u,ty=m+140*u,hh=H*.3,sy=ty+hh+12*u;
+   L.push(D('Medya',lw,m,W-lw-m,H-2*m,{r:r(52*u)}),B('Neon halka',lw,m,W-lw-m,H-2*m,{c1:c.a,nf:1,sw:r(5*u),glow:1,r:r(52*u)}),T('Ok','››››',m,m,200*u,70*u,56,c.a,{a:'left'}),T('Etiket',c.tag,m+210*u,m,cw2-210*u,70*u,32,'#ffffff',{a:'left',up:1}),T('Etiket 2',c.tag2,m,m+80*u,cw2,40*u,30,hi,{a:'left',b:0,up:1}),
+    T('Başlık',c.h,m,ty,cw2,hh,70,'#ffffff',{v:'bot',lh:1.1,an:'up',ad:.2}),T('Özet',c.s,m,sy,cw2,(vk?y0-24*u:H-m)-sy,34,'#d7deee',{b:0,v:'top',lh:1.3,an:'fade',ad:.6}));
+   if(vk)L.push(...pe(m,y0,cw2-(pt?240*u:0),42,32,'#ffffff',hi),...lgo(lw-m-220*u,y0-20*u,220*u,140*u,'rm'));
+  }else{const my=m+100*u,mh=H*(P?.5:(vk?.4:.44)),gh=H*(P?.2:.24),gy=my+mh-gh-28*u,y=my+mh+40*u,sy=y+(vk?150*u:0);
+   L.push(T('Ok','››››',m,m,200*u,80*u,64,c.a,{a:'left'}),T('Etiket',c.tag,m+210*u,m,W*.6-m-218*u,80*u,32,'#ffffff',{a:'left',up:1}),T('Etiket 2',c.tag2,W*.6,m,W*.4-m,80*u,30,hi,{a:'right',b:0,up:1}),
+    D('Medya',m,my,W-2*m,mh,{r:r(60*u)}),B('Neon halka',m,my,W-2*m,mh,{c1:c.a,nf:1,sw:r(5*u),glow:1,r:r(60*u)}),B('Cam panel',m+28*u,gy,W-2*m-56*u,gh,{c1:'#000000',o:.55,r:r(36*u),sw:2,sc:'#ffffff'}),B('Panel vurgusu',m+54*u,gy+gh*.18,9*u,gh*.64,{c1:c.a,r:4}),
+    T('Başlık',c.h,m+84*u,gy+12*u,W-2*m-56*u-84*u-24*u,gh-24*u,P?80:62,'#ffffff',{v:'mid',lh:1.1}));
+   if(vk)L.push(...pe(m,y,W-2*m-(pt?330*u:0),48,30,'#ffffff',hi),...lgo(W-m-300*u,y-20*u,300*u,150*u,'rm'));
+   L.push(T('Özet',c.s,m,sy,W-2*m,H-m-20*u-sy,P?42:34,'#d7deee',{b:0,v:'top',lh:1.3,an:'fade',ad:.6}),...bu(W-m-170*u,my+10*u));
+  }
  }
- if(pt){const dec=PO([[1,0],[1,1],[0,1]],W-r(360*u),H-r(360*u),r(360*u),r(360*u),{c1:si==1?c.a:c.a2,o:si==1?.1:.14,n:'Dekor'}),
-  ad=L.find(l=>l.n=='Ad Soyad'),un=L.find(l=>l.n=='Unvan'),pv=L.find(l=>l.n=='Kişi levhası'),pc=L.find(l=>l.n=='Kişi çizgisi');
-  if(si==0&&pv){const bw=r((LS?240:300)*u),bh=r((LS?160:190)*u);pv.c1='#ffffff';ad.c=c.ink;un.c=c.ta;ad.x=un.x=pv.x+r(24*u);ad.y=pv.y+r(6*u);ad.h=r(58*u);un.y=ad.y+r(56*u);un.h=r(46*u);ad.w=un.w=pv.w-bw-r(56*u);ad.a=un.a='left';
-   L.push(...lgo(pv.x+pv.w-bw-r(16*u),pv.y+pv.h-bh-r(8*u),bw,bh,'rb'));L.unshift(dec)}
-  else if(si==1&&pc){const bw=r((LS?220:300)*u),bh=r((LS?130:170)*u),right=LS?W*.44-m:W-m;ad.w=un.w=right-pc.x-r(22*u)-bw-r(20*u);L.push(...lgo(right-bw,pc.y+pc.h-bh,bw,bh,'rb'));L.unshift(dec)}
-  else if(si==2)L.push(...lgo(m,m,r(300*u),r(180*u),'lt'));else L.unshift(dec)}
+ if(si<2||si==3)L.unshift(PG('Dekor',[[1,0],[1,1],[0,1]],W-360*u,H-360*u,360*u,360*u,{c1:si==1?c.a:c.a2,o:si==1?.1:.14}));
  return{S,L}}
 
 function regen(){const[a,b,pi]=S.tk,o=PK(a,b,W,H,pi);o.L.forEach(l=>{const q=L.find(x=>x.k=='text'&&l.k=='text'&&x.n&&x.n==l.n);if(q)l.t=q.t});S={...S,...o.S};L=o.L;sel=null;commit();ui()}
-PKC.forEach((c,ci)=>{const row=document.createElement('div');row.className='pkr';row.innerHTML='<span>'+c.n+'</span>';PKS.forEach((n,si)=>{const x=document.createElement('button');x.className='b';x.textContent=n;x.onclick=()=>setT(PK(ci,si,W,H));row.append(x)});$('pk').append(row)});
+PKC.forEach((c,ci)=>{const row=document.createElement('div');row.className='pkr';row.innerHTML='<span>'+c.n+'</span>';PKS.forEach((n,si)=>{if(si==3&&ci!=1)return;const x=document.createElement('button');x.className='b';x.textContent=n;x.onclick=()=>setT(PK(ci,si,W,H));row.append(x)});$('pk').append(row)});
 let edL=null,panL=null;const FT=$('ft'),ed=$('ed');
 /* ---------- Siyasi partiler ---------- */
 const PARTIES=[
@@ -488,9 +500,9 @@ function ftSync(){const l=sel;if(!l)return;FT.querySelectorAll('input').forEach(
 function ftPos(){if(FT.hidden||!sel)return;const cr=cv.getBoundingClientRect(),wr=$('cw').getBoundingClientRect(),k=cr.width/W,l=sel;let x=cr.left-wr.left+l.x*k,y=cr.top-wr.top+l.y*k-FT.offsetHeight-8;if(y<2)y=cr.top-wr.top+(l.y+l.h)*k+8;x=Math.max(2,Math.min(x,wr.width-FT.offsetWidth-2));y=Math.max(2,Math.min(y,wr.height-FT.offsetHeight-2));FT.style.left=x+'px';FT.style.top=y+'px'}
 /* ---------- Açılır-kapanır paneller + parti menüsü ---------- */
 PARTIES.forEach((p,pi)=>{const d=document.createElement('div');d.className='pty c';const h=document.createElement('button');h.className='pth';h.title=p.n;h.innerHTML='<img src="'+PLOGO[p.k].d+'" alt="" style="height:22px;width:auto;max-width:34px;object-fit:contain;border-radius:3px"><span>'+p.s+'</span>';h.onclick=()=>d.classList.toggle('c');const b=document.createElement('div');b.className='ptb';
- ['Manşet','Minimal','Dinamik','Alıntı'].forEach((n,si)=>{const x=document.createElement('button');x.className='b';x.textContent=n;x.onclick=()=>setT(PK(1,si,W,H,pi));b.append(x)});d.append(h,b);$('pt').append(d)});
+ PKS.forEach((n,si)=>{const x=document.createElement('button');x.className='b';x.textContent=n;x.onclick=()=>setT(PK(1,si,W,H,pi));b.append(x)});d.append(h,b);$('pt').append(d)});
 document.querySelectorAll('.ac').forEach(a=>{const k=a.dataset.k;let st={};try{st=JSON.parse(localStorage.getItem('rs_ac')||'{}')}catch(e){}if(st[k]!==undefined?st[k]:a.dataset.c=='1')a.classList.add('c');a.querySelector('.ach').onclick=()=>{a.classList.toggle('c');st[k]=a.classList.contains('c')?1:0;try{localStorage.setItem('rs_ac',JSON.stringify(st))}catch(e){}}});
-fit();$('fm').value=0;{const o=TP['📰 Haber']();o.d=[1080,1920];setT(o)}tick();
+fit();$('fm').value=0;setT(PK(0,5,W,H));tick();
 </script>
 <script>if('serviceWorker' in navigator&&/^https?:$/.test(location.protocol)){addEventListener('load',()=>navigator.serviceWorker.register('sw.js').catch(()=>{}))}</script>
 </body></html>

diff --git a/ebs_prof_reals_studio/sw.js b/ebs_prof_reals_studio/sw.js
@@ -1,5 +1,5 @@
 /* Reels Studio – service worker (çevrimdışı çalışma). Güncelleme için V sürümünü artırın. */
-const V='reels-studio-v3';
+const V='reels-studio-v4';
 const FILES=['./','index.html','manifest.webmanifest','icons/icon-192.png','icons/icon-512.png','icons/icon-maskable-512.png','icons/apple-touch-icon.png'];
 const U=f=>new URL(f,self.registration.scope).href;
 self.addEventListener('install',e=>{e.waitUntil(caches.open(V).then(c=>Promise.all(FILES.map(f=>c.add(U(f)).catch(()=>{})))).then(()=>self.skipWaiting()))});
